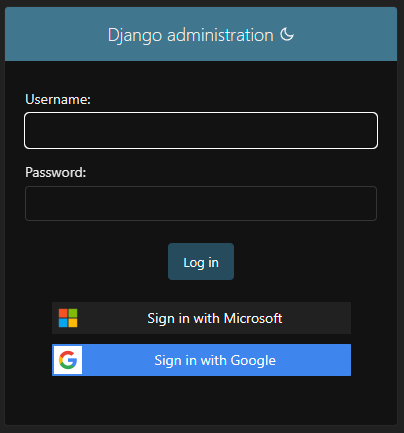
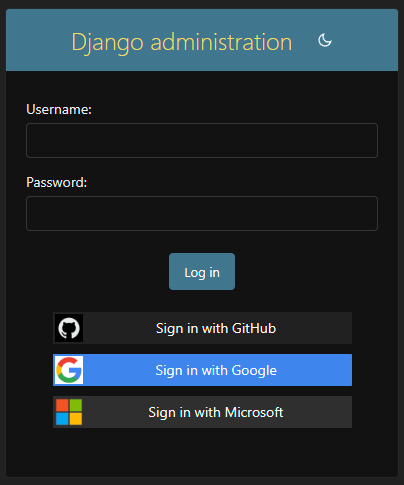
feat!: New version
BREAKING CHANGE:
* Remove Django 4.1 support
* Add Django 5.0 support
* Fix `SSO_USE_ALTERNATE_W003` bug
* Fix several CSS issues with custom logo images
* Update docs

diff --git a/django_microsoft_sso/static/django_microsoft_sso/microsoft_button.css b/django_microsoft_sso/static/django_microsoft_sso/microsoft_button.css
@@ -1,9 +1,9 @@
 /*
   login-btn
-  ---------------------------------
-  | --------------                 |
-  | | btn-logo   |    btn-label    |
-  | --------------                 |
+  ----------------------------------
+  | --------------                           |
+  | | btn-logo   |    btn-label           |
+  | --------------                            |
   ----------------------------------
 */
 
@@ -14,6 +14,8 @@
     padding: 1px;
     margin-bottom: 10px;
     width: 100%;
+    height: 28px;
+    display: flex;
 }
 
 /* Microsoft Login Button Hover */
@@ -26,6 +28,7 @@
 /* Microsoft Login Button Remove Decoration */
 .microsoft-login-btn a {
     text-decoration: none;
+    width: 100%;
 }
 
 /* Microsoft Login Button Logo Area */
@@ -33,7 +36,13 @@
     display: flex;
     justify-content: center;
     align-content: center;
-    padding: 4px;
+    height: 28px;
+    width: 28px;
+}
+
+.microsoft-btn-logo img {
+    height: 28px;
+    width: 28px;
 }
 
 /* Microsoft Login Button Label Area */
@@ -42,13 +51,13 @@
     margin-top: -1px;
     width: 100%;
     text-align: center;
-    padding: 0 10px;
 }
+
 /* Button black in dark mode */
 @media (prefers-color-scheme: dark) {
     .microsoft-login-btn {
-        background-color: #212121;
-        border: 1px solid #212121;
+        background-color: rgb(47, 47, 47);
+        border: 1px solid rgb(47, 47, 47);
         padding: 1px;
         margin-bottom: 10px;
         width: 100%;
@@ -71,7 +80,11 @@
         display: flex;
         justify-content: center;
         align-content: center;
-        padding: 4px;
+    }
+
+    .microsoft-btn-logo img {
+        height: 28px;
+        width: 28px;
     }
 
     /* Microsoft Login Button Label Area */
@@ -80,6 +93,5 @@
         margin-top: -1px;
         width: 100%;
         text-align: center;
-        padding: 0 10px;
     }
 }

diff --git a/example_microsoft_app/settings.py b/example_microsoft_app/settings.py
@@ -1,5 +1,5 @@
 """
-Django settings for example_app project.
+Django settings for example_microsoft_app project.
 
 Generated by 'django-admin startproject' using Django 3.2.9.
 
@@ -64,7 +64,7 @@ MIDDLEWARE = [
     "django.middleware.clickjacking.XFrameOptionsMiddleware",
 ]
 
-ROOT_URLCONF = "example_app.urls"
+ROOT_URLCONF = "example_microsoft_app.urls"
 
 TEMPLATES = [
     {
@@ -82,7 +82,7 @@ TEMPLATES = [
     },
 ]
 
-WSGI_APPLICATION = "example_app.wsgi.application"
+WSGI_APPLICATION = "example_microsoft_app.wsgi.application"
 
 
 # Database
@@ -151,7 +151,7 @@ if "jet" in INSTALLED_APPS:
 # https://docs.djangoproject.com/en/3.2/howto/static-files/
 
 STATIC_URL = "/static/"
-STATICFILES_DIRS = [BASE_DIR / "example_app" / "static"]
+STATICFILES_DIRS = [BASE_DIR / "example_microsoft_app" / "static"]
 
 
 # Default primary key field type
@@ -159,7 +159,7 @@ STATICFILES_DIRS = [BASE_DIR / "example_app" / "static"]
 
 DEFAULT_AUTO_FIELD = "django.db.models.BigAutoField"
 
-AUTHENTICATION_BACKENDS = ["example_app.backend.MyBackend"]
+AUTHENTICATION_BACKENDS = ["example_microsoft_app.backend.MyBackend"]
 
 
 SITE_ID = 1
@@ -185,9 +185,9 @@ MICROSOFT_SSO_AUTO_CREATE_FIRST_SUPERUSER = (
 )
 MICROSOFT_SSO_STAFF_LIST = env.get_or_default("MICROSOFT_SSO_STAFF_LIST", "").split(",")
 
-MICROSOFT_SSO_SUPERUSER_LIST = env.get_or_default(
-    "MICROSOFT_SSO_SUPERUSER_LIST", ""
-).split(",")
+MICROSOFT_SSO_SUPERUSER_LIST = env.get_or_default("MICROSOFT_SSO_SUPERUSER_LIST", "").split(
+    ","
+)
 
 # Optional: You can save access token to session
 MICROSOFT_SSO_SAVE_ACCESS_TOKEN = True
@@ -224,16 +224,14 @@ GOOGLE_SSO_CLIENT_ID = env.GOOGLE_SSO_CLIENT_ID
 GOOGLE_SSO_PROJECT_ID = env.GOOGLE_SSO_PROJECT_ID
 GOOGLE_SSO_CLIENT_SECRET = env.GOOGLE_SSO_CLIENT_SECRET
 
-GOOGLE_SSO_ALLOWABLE_DOMAINS = env.get_or_default(
-    "GOOGLE_SSO_ALLOWABLE_DOMAINS", ""
-).split(",")
+GOOGLE_SSO_ALLOWABLE_DOMAINS = env.get_or_default("GOOGLE_SSO_ALLOWABLE_DOMAINS", "").split(
+    ","
+)
 GOOGLE_SSO_AUTO_CREATE_FIRST_SUPERUSER = (
     False  # Mark as True, to create superuser on first eligible user login
 )
 GOOGLE_SSO_STAFF_LIST = env.get_or_default("GOOGLE_SSO_STAFF_LIST", "").split(",")
-GOOGLE_SSO_SUPERUSER_LIST = env.get_or_default("GOOGLE_SSO_SUPERUSER_LIST", "").split(
-    ","
-)
+GOOGLE_SSO_SUPERUSER_LIST = env.get_or_default("GOOGLE_SSO_SUPERUSER_LIST", "").split(",")
 GOOGLE_SSO_TIMEOUT = 10  # default value
 GOOGLE_SSO_SCOPES = [  # default values
     "openid",

diff --git a/example_microsoft_app/urls.py b/example_microsoft_app/urls.py
@@ -1,4 +1,4 @@
-"""example_app URL Configuration
+"""example_microsoft_app URL Configuration
 
 The `urlpatterns` list routes URLs to views. For more information please see:
     https://docs.djangoproject.com/en/3.2/topics/http/urls/
@@ -20,8 +20,8 @@ from django.contrib.auth.views import LoginView
 from django.urls import include, path
 
 from django_microsoft_sso.views import microsoft_slo_view
-from example_app.settings import INSTALLED_APPS
-from example_app.views import secret_page
+from example_microsoft_app.settings import INSTALLED_APPS
+from example_microsoft_app.views import secret_page
 
 urlpatterns = [
     path("admin/", admin.site.urls),
@@ -49,7 +49,7 @@ if "jet" in INSTALLED_APPS:
 
 urlpatterns += [
     path(
-        "microsoft_sso/",
+        "google_sso/",
         include("django_google_sso.urls", namespace="django_google_sso"),
     ),
     path(

diff --git a/django_microsoft_sso/checks/warnings.py b/django_microsoft_sso/checks/warnings.py
@@ -1,24 +1,9 @@
-import glob
-import os
 
 from django.core.checks import Tags, register
 from django.core.checks.messages import Warning
 from django.core.checks.templates import check_for_template_tags_with_the_same_name
 
-
-def get_template_tag_names():
-    dir_path = os.path.dirname(__file__)
-    template_path = os.path.join(os.path.dirname(dir_path), "../templatetags")
-    python_files = glob.glob(os.path.join(template_path, "*.py"))
-    names = [
-        os.path.basename(file).replace(".py", "")
-        for file in python_files
-        if not file.endswith("__init__.py")
-    ]
-    return names
-
-
-TEMPLATE_TAG_NAMES = get_template_tag_names()
+TEMPLATE_TAG_NAMES = ["show_form", "sso_tags"]
 
 
 @register(Tags.templates)

diff --git a/django_microsoft_sso/templatetags/sso_tags.py b/django_microsoft_sso/templatetags/sso_tags.py
@@ -6,6 +6,7 @@ from django.conf import settings
 from django.templatetags.static import static
 from django.urls import reverse
 from django.utils.translation import gettext
+from loguru import logger
 
 register = template.Library()
 
@@ -39,6 +40,6 @@ def define_sso_providers():
                         ),
                     }
                 )
-        except ModuleNotFoundError:
-            pass
+        except Exception as e:
+            logger.error(f"Error importing {package_name}: {e}")
     return sso_providers

diff --git a/example_microsoft_app/asgi.py b/example_microsoft_app/asgi.py
@@ -1,5 +1,5 @@
 """
-ASGI config for example_app project.
+ASGI config for example_microsoft_app project.
 
 It exposes the ASGI callable as a module-level variable named ``application``.
 
@@ -11,6 +11,6 @@ import os
 
 from django.core.asgi import get_asgi_application
 
-os.environ.setdefault("DJANGO_SETTINGS_MODULE", "example_app.settings")
+os.environ.setdefault("DJANGO_SETTINGS_MODULE", "example_microsoft_app.settings")
 
 application = get_asgi_application()

diff --git a/example_microsoft_app/wsgi.py b/example_microsoft_app/wsgi.py
@@ -1,5 +1,5 @@
 """
-WSGI config for example_app project.
+WSGI config for example_microsoft_app project.
 
 It exposes the WSGI callable as a module-level variable named ``application``.
 
@@ -11,6 +11,6 @@ import os
 
 from django.core.wsgi import get_wsgi_application
 
-os.environ.setdefault("DJANGO_SETTINGS_MODULE", "example_app.settings")
+os.environ.setdefault("DJANGO_SETTINGS_MODULE", "example_microsoft_app.settings")
 
 application = get_wsgi_application()

diff --git a/example_microsoft_app/manage.py b/example_microsoft_app/manage.py
@@ -6,7 +6,7 @@ import sys
 
 def main():
     """Run administrative tasks."""
-    os.environ.setdefault("DJANGO_SETTINGS_MODULE", "example_app.settings")
+    os.environ.setdefault("DJANGO_SETTINGS_MODULE", "example_microsoft_app.settings")
     try:
         from django.core.management import execute_from_command_line
     except ImportError as exc:

diff --git a/django_microsoft_sso/admin.py b/django_microsoft_sso/admin.py
@@ -36,6 +36,9 @@ class MicrosoftSSOInlineAdmin(admin.StackedInline):
     readonly_fields = ("microsoft_id", "picture")
     extra = 0
 
+    def has_add_permission(self, request, obj):
+        return False
+
 
 CurrentUserModel, last_admin, LastUserAdmin = get_current_user_and_admin()
 
